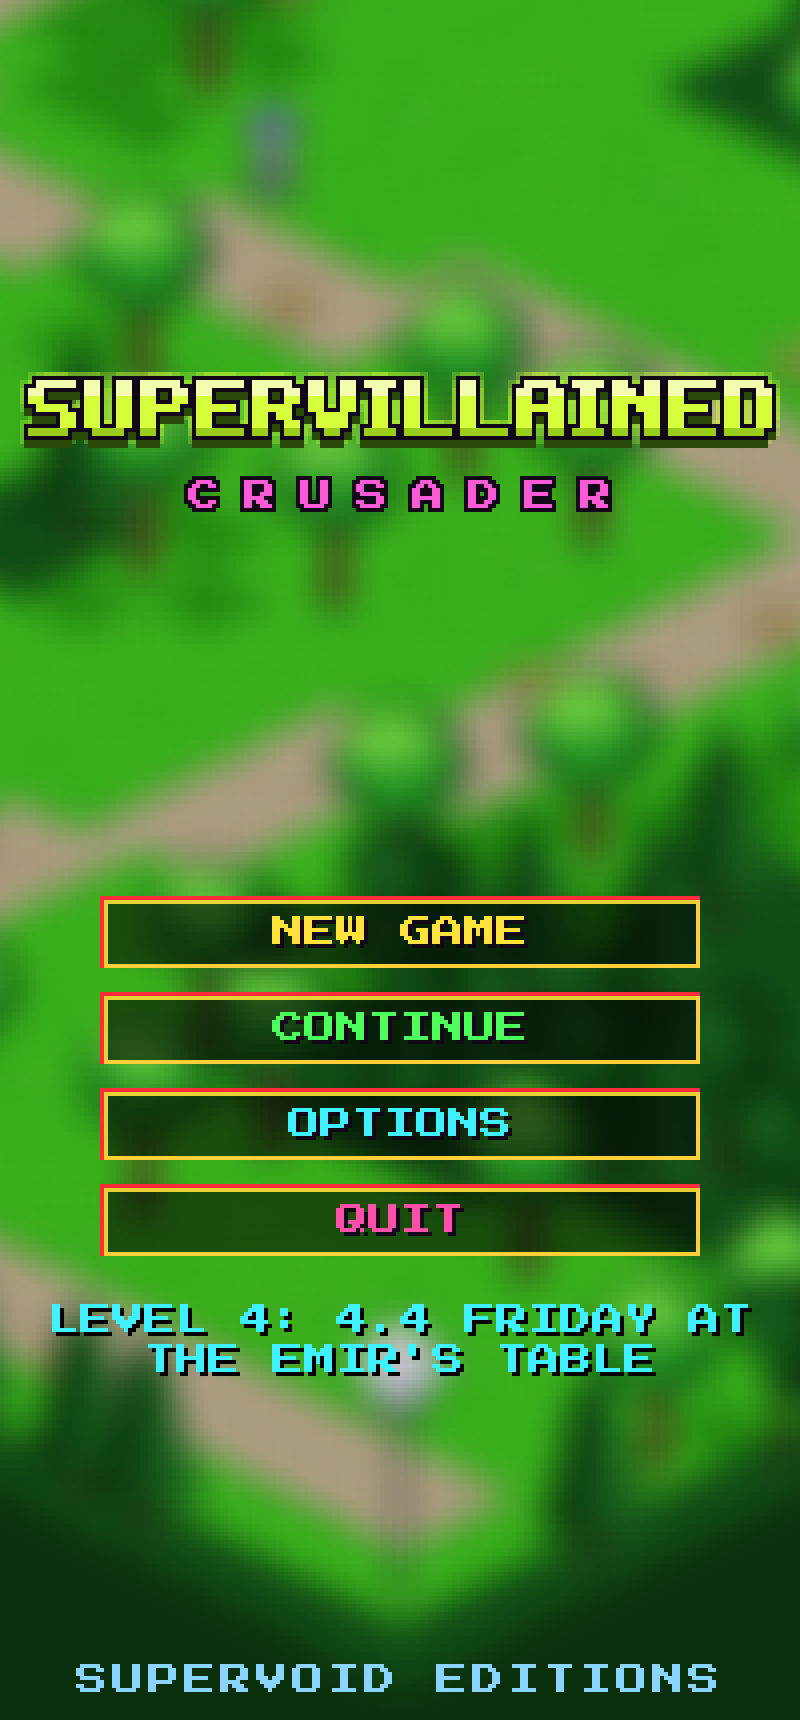
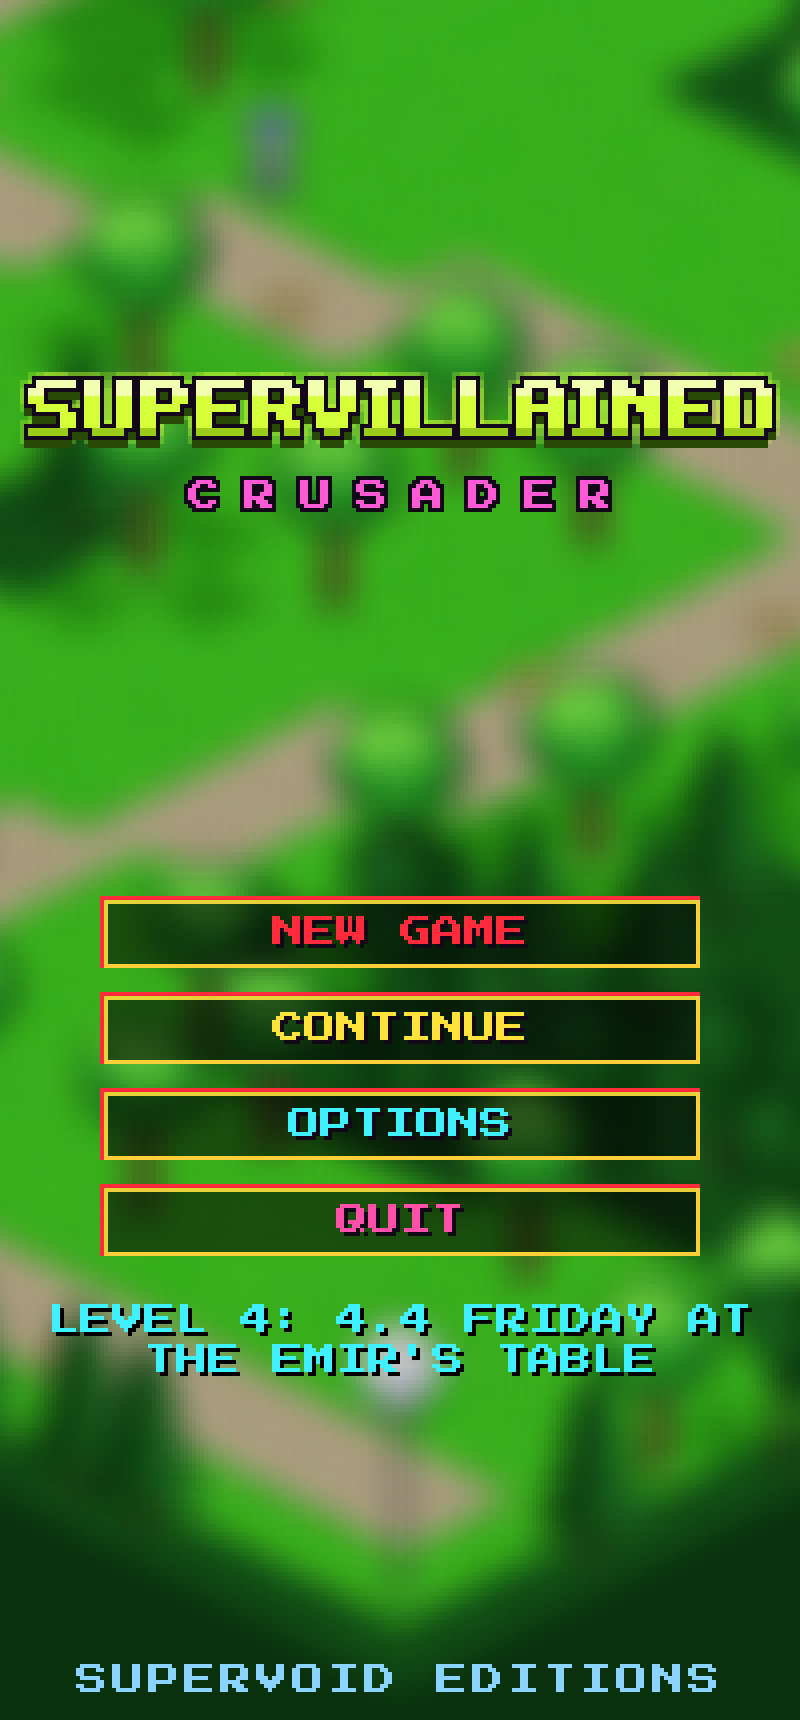
Title colours; intro music for reading, level music for playing
NEW GAME is red and CONTINUE yellow on the title. The intro music now
plays on every reading screen (title, cards, the walk's briefing and
score, the Professor's asides, the ending); the Green Zone music starts
only when the walk itself begins, and each level's music only when its
scene starts. Tracks resume where they were paused.

Claude-Session: https://claude.ai/code/session_01M83brc3uYNtkMe9oqkk4LQ

Changed region(s): [[0.3438, 0.5855, 0.6562, 0.6163], [0.5, 0.5238, 0.6562, 0.5547], [0.3438, 0.5238, 0.4688, 0.5547]]

diff --git a/src/story/storyFlow.ts b/src/story/storyFlow.ts
@@ -132,10 +132,16 @@ export class StoryFlow {
     );
   }
 
-  private showSub(ch: ChapterDef, sub: SubLevelDef, withChapterCard: boolean): void {
-    this.game.audio.setTrack(ch.music);
+  /** Intro music while the player reads the cards; the level's own music plays in the scene. */
+  private reading(): void {
+    this.game.audio.setTrack('intro');
+    this.game.audio.setDuck(1);
     this.game.audio.startMusic();
+  }
+
+  private showSub(ch: ChapterDef, sub: SubLevelDef, withChapterCard: boolean): void {
     if (this.autopilot) return this.startSub(ch, sub);
+    this.reading();
     const subCard = () =>
       this.game.scenes.replaceAll(
         new StoryCardScene(
@@ -176,6 +182,9 @@ export class StoryFlow {
       }
       return this.playGreenZone(sub.greenZone, () => this.finishSub(ch, sub));
     }
+    this.game.audio.setTrack(ch.music);
+    this.game.audio.setDuck(1);
+    this.game.audio.startMusic();
     const scene = new StoryScene(this.game, this.replaying ? structuredClone(this.state) : this.state, ch, sub, {
       onFinished: () => this.finishSub(ch, sub),
       onMenu: () => this.pause(ch, sub),
@@ -205,6 +214,7 @@ export class StoryFlow {
       return this.glitch(() => (nextCh ? this.showSub(nextCh, nextCh.subLevels[0]!, true) : this.showEnding()));
     }
     // End of the level: the Professor's aside.
+    this.reading();
     this.glitch(() =>
       this.game.scenes.replaceAll(
         new StoryCardScene(
@@ -226,6 +236,7 @@ export class StoryFlow {
   }
 
   private showEnding(): void {
+    this.reading();
     const e = ending(this.state);
     if (this.autopilot) this.log.push({ id: 'ending', time: 0, metrics: null, meters: { ...this.state.meters }, ending: e });
     const lines =

diff --git a/src/scenes/flow.ts b/src/scenes/flow.ts
@@ -153,8 +153,8 @@ export class Flow {
     scene.active = false;
     this.game.scenes.replaceAll(scene);
     scene.setControlsEnabled(false);
-    this.game.audio.setTrack('greenzone');
-    this.game.audio.startMusic();
+    // Reading the rules: intro music. The Green Zone music starts with the walk (startPlaying).
+    this.reading();
     this.game.scenes.push(new BriefingScene(this.game, () => this.startPlaying()));
   }
 
@@ -168,6 +168,13 @@ export class Flow {
     scene.controls.root.visible = true;
     scene.setControlsEnabled(true);
     this.game.audio.setTrack('greenzone');
+    this.game.audio.setDuck(1);
+    this.game.audio.startMusic();
+  }
+
+  /** Intro music while the player reads (title, briefing, score). */
+  private reading(): void {
+    this.game.audio.setTrack('intro');
     this.game.audio.setDuck(1);
     this.game.audio.startMusic();
   }
@@ -284,6 +291,7 @@ export class Flow {
       nextLabel: 'CONTINUE',
     };
     scene.setControlsEnabled(false);
+    this.reading();
     const end = new LevelEndScene(this.game, this.level, result, {
       next: () => {
         this.storyDone = null;

diff --git a/src/scenes/overlays.ts b/src/scenes/overlays.ts
@@ -80,8 +80,8 @@ export class TitleScene extends Overlay {
     }).setOrigin(0.5, 0);
     this.menu = new Menu(
       [
-        { label: 'NEW GAME', action: actions.newGame, color: C.yellow },
-        { label: 'CONTINUE', action: () => (canContinue ? actions.cont() : this.game.audio.play('empty')), color: canContinue ? C.green : '#5a5a6a' },
+        { label: 'NEW GAME', action: actions.newGame, color: C.red },
+        { label: 'CONTINUE', action: () => (canContinue ? actions.cont() : this.game.audio.play('empty')), color: canContinue ? C.yellow : '#5a5a6a' },
         { label: 'OPTIONS', action: actions.options, color: C.cyan },
         { label: 'QUIT', action: actions.quit, color: C.pink },
       ],

diff --git a/src/core/audio.ts b/src/core/audio.ts
@@ -254,7 +254,8 @@ export class AudioEngine {
       ctx.createMediaElementSource(el).connect(this.music);
       this.elements.set(this.track, el);
     }
-    el.currentTime = 0;
+    // Each track picks up where it was paused: switching between the intro (reading screens) and
+    // the level's music does not restart either from the top.
     this.playingElement = el;
     const playing = el;
     void el.play().catch(() => {

diff --git a/ASSETS.md b/ASSETS.md
@@ -122,8 +122,8 @@ offline. Each file is wired in `src/fx/audioFiles.ts`:
 
 | File | Plays when |
 |------|-----------|
-| `music/intro-music.mp3` | title screen, briefing, story menu |
-| `music/greenzone-music.mp3` | arcade gameplay; story levels 1 and 8 (Greenzone) |
+| `music/intro-music.mp3` | every reading screen: title, options, level and scene cards, the walk's briefing and score, the Professor's asides, the ending |
+| `music/greenzone-music.mp3` | only while playing in the Green Zone: the 1.0 walk and the scenes of levels 1 and 8 |
 | `sounds/dog-bark.mp3` | Zampanò barks (arcade and story) |
 | `sounds/food-collect.mp3` | a treat is eaten (TREATS +1); story pickups |
 | `sounds/poos.mp3` | a poop (POOPS +1) |

diff --git a/DECISIONS.md b/DECISIONS.md
@@ -391,4 +391,8 @@ longer bullied in the Green Zone.
   phone's back button on the title also quits.
 - The autopilot does not play the walk (it marks 1.0 as done and goes on); the screenshot
   scenarios m1–m6 play it, now starting from NEW GAME.
+- **Music follows what the player is doing**: the intro music plays on every screen meant for
+  reading (title, cards, briefing, score, the Professor, the ending); a level's own music (Green
+  Zone or medieval) starts only when the play starts. Each track resumes where it was paused
+  instead of restarting from the top.
 
